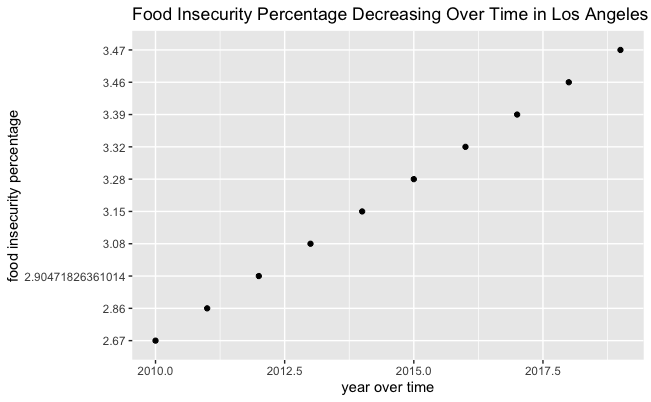
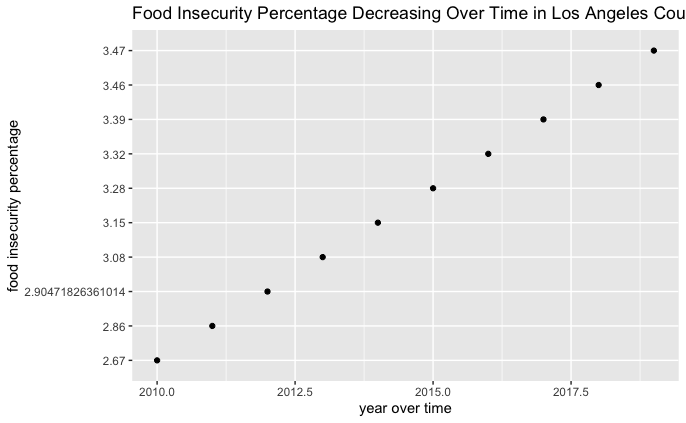
update 12

diff --git a/content/post/2021-08-02-food-insecurity-code-exploration-and-modeling/food insecurity code - years.html b/content/post/2021-08-02-food-insecurity-code-exploration-and-modeling/food insecurity code - years.html
@@ -1,0 +1,104 @@
+---
+title: "Food Insecurity Code - Over the Years"
+author: "R package build"
+date: '2021-08-02'
+slug: food-insecurity-code-over-the-years
+categories: R
+tags:
+- R Markdown
+- regression
+---
+
+
+
+<div id="over-the-years" class="section level2">
+<h2>Over the Years</h2>
+<p>The combined data was made up of multiple datasets that need to be binded together to witness movement over time. This code only uses certain columns from the data, though some labels needed to be changed so they could be merged later on.</p>
+</div>
+<div id="choosing-examples" class="section level2">
+<h2>Choosing examples</h2>
+<p>I wanted to look at three different counties. I decided these three: the capital, the location of the food pantry I work at, and a place some relatives live.</p>
+<pre class="r"><code>x19 &lt;- x19 %&gt;% filter(State == &quot;CA&quot;)
+x19a &lt;- x19 %&gt;% filter(`County, State` == &quot;Sacramento County, California&quot;)
+x19b &lt;- x19 %&gt;% filter(`County, State` == &quot;Yuba County, California&quot;)
+x19c &lt;- x19 %&gt;% filter(`County, State` == &quot;Los Angeles County, California&quot;)
+
+x18 &lt;- x18 %&gt;% filter(State == &quot;CA&quot;)
+x18a &lt;- x18 %&gt;% filter(`County, State` == &quot;Sacramento County, California&quot;)
+x18b &lt;- x18 %&gt;% filter(`County, State` == &quot;Yuba County, California&quot;)
+x18c &lt;- x18 %&gt;% filter(`County, State` == &quot;Los Angeles County, California&quot;)
+
+x17 &lt;- x17 %&gt;% filter(State == &quot;CA&quot;)
+x17a &lt;- x17 %&gt;% filter(`County, State` == &quot;Sacramento County, California&quot;)
+x17b &lt;- x17 %&gt;% filter(`County, State` == &quot;Yuba County, California&quot;)
+x17c &lt;- x17 %&gt;% filter(`County, State` == &quot;Los Angeles County, California&quot;)
+
+x16 &lt;- x16 %&gt;% filter(State == &quot;CA&quot;) 
+x16a &lt;- x16 %&gt;% filter(`County, State` == &quot;Sacramento County, California&quot;)
+x16b &lt;- x16 %&gt;% filter(`County, State` == &quot;Yuba County, California&quot;)
+x16c &lt;- x16 %&gt;% filter(`County, State` == &quot;Los Angeles County, California&quot;)
+
+x15 &lt;- x15 %&gt;% filter(State == &quot;CA&quot;) 
+x15a &lt;- x15 %&gt;% filter(`County, State` == &quot;Sacramento County, California&quot;)
+x15b &lt;- x15 %&gt;% filter(`County, State` == &quot;Yuba County, California&quot;)
+x15c &lt;- x15 %&gt;% filter(`County, State` == &quot;Los Angeles County, California&quot;)
+
+x14 &lt;- x14 %&gt;% filter(State == &quot;CA&quot;)
+x14a &lt;- x14 %&gt;% filter(`County, State` == &quot;Sacramento County, California&quot;)
+x14b &lt;- x14 %&gt;% filter(`County, State` == &quot;Yuba County, California&quot;)
+x14c &lt;- x14 %&gt;% filter(`County, State` == &quot;Los Angeles County, California&quot;)
+
+x13 &lt;- x13 %&gt;% filter(State == &quot;CA&quot;)
+x13a &lt;- x13 %&gt;% filter(`County, State` == &quot;Sacramento County, California&quot;)
+x13b &lt;- x13 %&gt;% filter(`County, State` == &quot;Yuba County, California&quot;)
+x13c &lt;- x13 %&gt;% filter(`County, State` == &quot;Los Angeles County, California&quot;)
+
+x12 &lt;- x12 %&gt;% filter(State == &quot;CA&quot;) 
+x12a &lt;- x12 %&gt;% filter(`County, State` == &quot;Sacramento County, California&quot;)
+x12b &lt;- x12 %&gt;% filter(`County, State` == &quot;Yuba County, California&quot;)
+x12c &lt;- x12 %&gt;% filter(`County, State` == &quot;Los Angeles County, California&quot;)
+
+x11 &lt;- x11 %&gt;% filter(State == &quot;CA&quot;)
+x11a &lt;- x11 %&gt;% filter(`County, State` == &quot;Sacramento County, California&quot;)
+x11b &lt;- x11 %&gt;% filter(`County, State` == &quot;Yuba County, California&quot;)
+x11c &lt;- x11 %&gt;% filter(`County, State` == &quot;Los Angeles County, California&quot;)
+
+x10 &lt;- x10 %&gt;% filter(State == &quot;CA&quot;)
+x10a &lt;- x10 %&gt;% filter(`County, State` == &quot;Sacramento County, California&quot;)
+x10b &lt;- x10 %&gt;% filter(`County, State` == &quot;Yuba County, California&quot;)
+x10c &lt;- x10 %&gt;% filter(`County, State` == &quot;Los Angeles County, California&quot;)
+
+SCfoodin &lt;- rbind(x10a, x11a, x12a, x13a, x14a, x15a, x16a, x17a, x18a, x19a)
+STfoodin &lt;- rbind(x10b, x11b, x12b, x13b, x14b, x15b, x16b, x17b, x18b, x19b)
+LAfoodin &lt;- rbind(x10c, x11c, x12c, x13c, x14c, x15c, x16c, x17c, x18c, x19c)
+
+SCfoodin$year &lt;- c(2010,2011,2012,2013,2014,2015,2016,2017,2018,2019)
+STfoodin$year &lt;- c(2010,2011,2012,2013,2014,2015,2016,2017,2018,2019)
+LAfoodin$year &lt;- c(2010,2011,2012,2013,2014,2015,2016,2017,2018,2019)</code></pre>
+<p><img src="/post/2021-08-02-food-insecurity-code-exploration-and-modeling/food%20insecurity%20code%20-%20years_files/figure-html/unnamed-chunk-2-1.png" width="672" /></p>
+<pre class="r"><code>STfoodin %&gt;% ggplot(aes(year,insecure_percen)) + geom_point() + ggtitle(&quot;Food Insecurity Percentage Decreasing Over Time in Yuba County&quot;) + xlab(&quot;year over time&quot;) + ylab(&quot;food insecurity percentage&quot;)</code></pre>
+<p><img src="/post/2021-08-02-food-insecurity-code-exploration-and-modeling/food%20insecurity%20code%20-%20years_files/figure-html/unnamed-chunk-3-1.png" width="672" /></p>
+<pre class="r"><code>LAfoodin %&gt;% ggplot(aes(year,insecure_percen)) + geom_point() + ggtitle(&quot;Food Insecurity Percentage Decreasing Over Time in Los Angeles County&quot;) + xlab(&quot;year over time&quot;) + ylab(&quot;food insecurity percentage&quot;)</code></pre>
+<p><img src="/post/2021-08-02-food-insecurity-code-exploration-and-modeling/food%20insecurity%20code%20-%20years_files/figure-html/unnamed-chunk-4-1.png" width="672" /></p>
+</div>
+<div id="price-of-a-meal" class="section level2">
+<h2>Price of a meal</h2>
+<p>Looking into the average price of a meal in these counties, it clearly increases over time, thanks to inflation and generally how things become pricier over time. Sacramento and Yuba counties, for some reason, have a drop in price in 2019, even if it’s only a few cents. This single drop shouldn’t have too much of an impact on the analysis.</p>
+<pre class="r"><code>LAfoodin %&gt;% ggplot(aes(year,secure_meal_value)) + geom_point() + ggtitle(&quot;Price of a meal in Los Angeles county increases over time&quot;) + xlab(&quot;year over time&quot;) + ylab(&quot;food insecurity percentage&quot;)</code></pre>
+<p><img src="/post/2021-08-02-food-insecurity-code-exploration-and-modeling/food%20insecurity%20code%20-%20years_files/figure-html/unnamed-chunk-5-1.png" width="672" /></p>
+<pre class="r"><code>SCfoodin %&gt;% ggplot(aes(year,secure_meal_value)) + geom_point() + ggtitle(&quot;Price of a meal in Sacramento county increases over time&quot;) + xlab(&quot;year over time&quot;) + ylab(&quot;food insecurity percentage&quot;)</code></pre>
+<p><img src="/post/2021-08-02-food-insecurity-code-exploration-and-modeling/food%20insecurity%20code%20-%20years_files/figure-html/unnamed-chunk-6-1.png" width="672" /></p>
+<pre class="r"><code>STfoodin %&gt;% ggplot(aes(year,secure_meal_value)) + geom_point() + ggtitle(&quot;Price of a meal in Yuba county increases over time&quot;) + xlab(&quot;year over time&quot;) + ylab(&quot;food insecurity percentage&quot;)</code></pre>
+<p><img src="/post/2021-08-02-food-insecurity-code-exploration-and-modeling/food%20insecurity%20code%20-%20years_files/figure-html/unnamed-chunk-7-1.png" width="672" /></p>
+</div>
+<div id="weighted-annual-food-budget-shortfall" class="section level2">
+<h2>Weighted Annual Food Budget Shortfall</h2>
+<p>According to the key of the data sets, this column describes the “weighted weekly dollars needed by the food insecure multiplied by the population of the geography”. In other words, by adding the amount of money per week needed by food insecure individuals, then multiplying it by the total county population, you are given, in essence, a minimum budget for food allocation for the county.</p>
+<p>The numbers very over time between each county, but all three counties show a general decrease in the budget over time, barring Sacramento’s massive jump.</p>
+<pre class="r"><code>STfoodin %&gt;% ggplot(aes(year,`Weighted Annual Food Budget Shortfall`)) + geom_point() + ggtitle(&quot;Minimum food budget in Yuba county over time&quot;) + xlab(&quot;year over time&quot;) + ylab(&quot;food budget&quot;)</code></pre>
+<p><img src="/post/2021-08-02-food-insecurity-code-exploration-and-modeling/food%20insecurity%20code%20-%20years_files/figure-html/unnamed-chunk-8-1.png" width="672" /></p>
+<pre class="r"><code>SCfoodin %&gt;% ggplot(aes(year,`Weighted Annual Food Budget Shortfall`)) + geom_point() + ggtitle(&quot;Minimum food budget in Sacramento county over time&quot;) + xlab(&quot;year over time&quot;) + ylab(&quot;food budget&quot;)</code></pre>
+<p><img src="/post/2021-08-02-food-insecurity-code-exploration-and-modeling/food%20insecurity%20code%20-%20years_files/figure-html/unnamed-chunk-9-1.png" width="672" /></p>
+<pre class="r"><code>LAfoodin %&gt;% ggplot(aes(year,`Weighted Annual Food Budget Shortfall`)) + geom_point() + ggtitle(&quot;Minimum food budget in Los Angeles county over time&quot;) + xlab(&quot;year over time&quot;) + ylab(&quot;food budget&quot;)</code></pre>
+<p><img src="/post/2021-08-02-food-insecurity-code-exploration-and-modeling/food%20insecurity%20code%20-%20years_files/figure-html/unnamed-chunk-10-1.png" width="672" /></p>
+</div>
